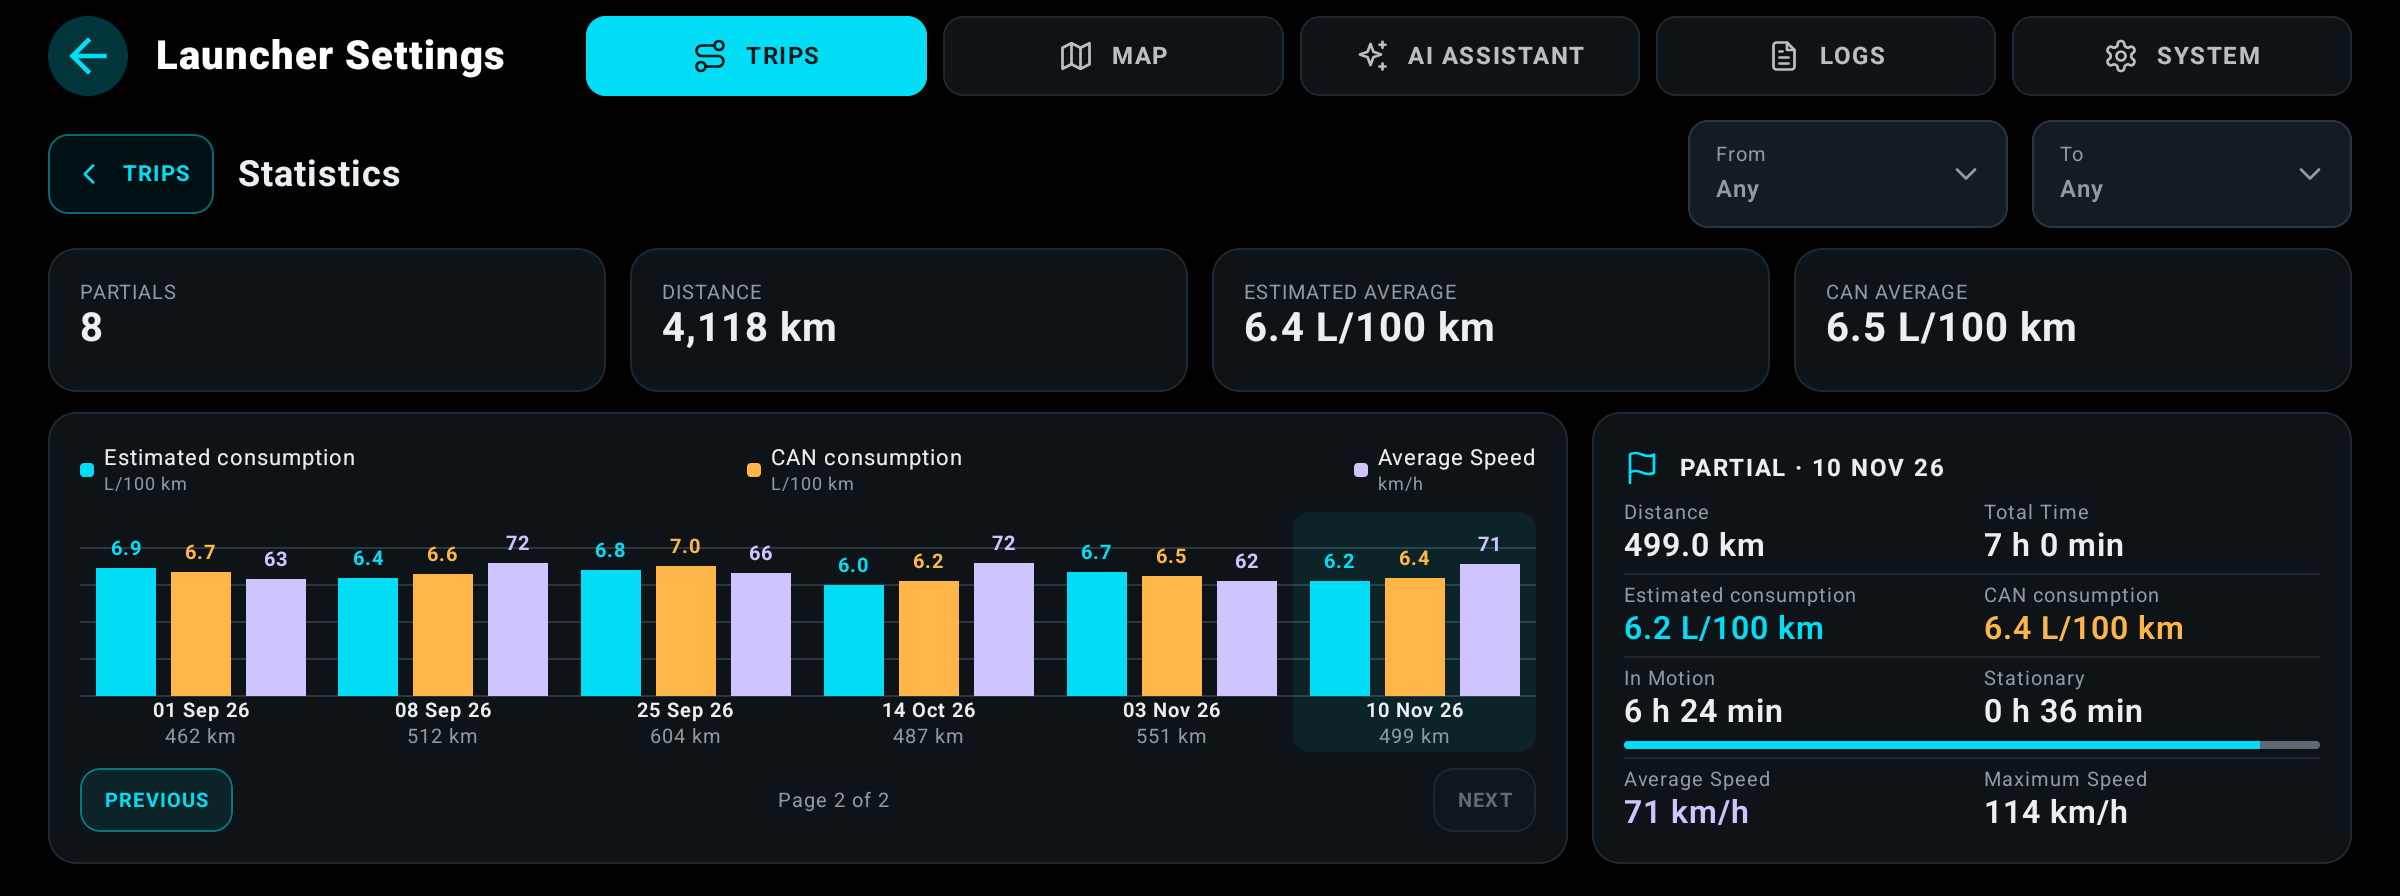
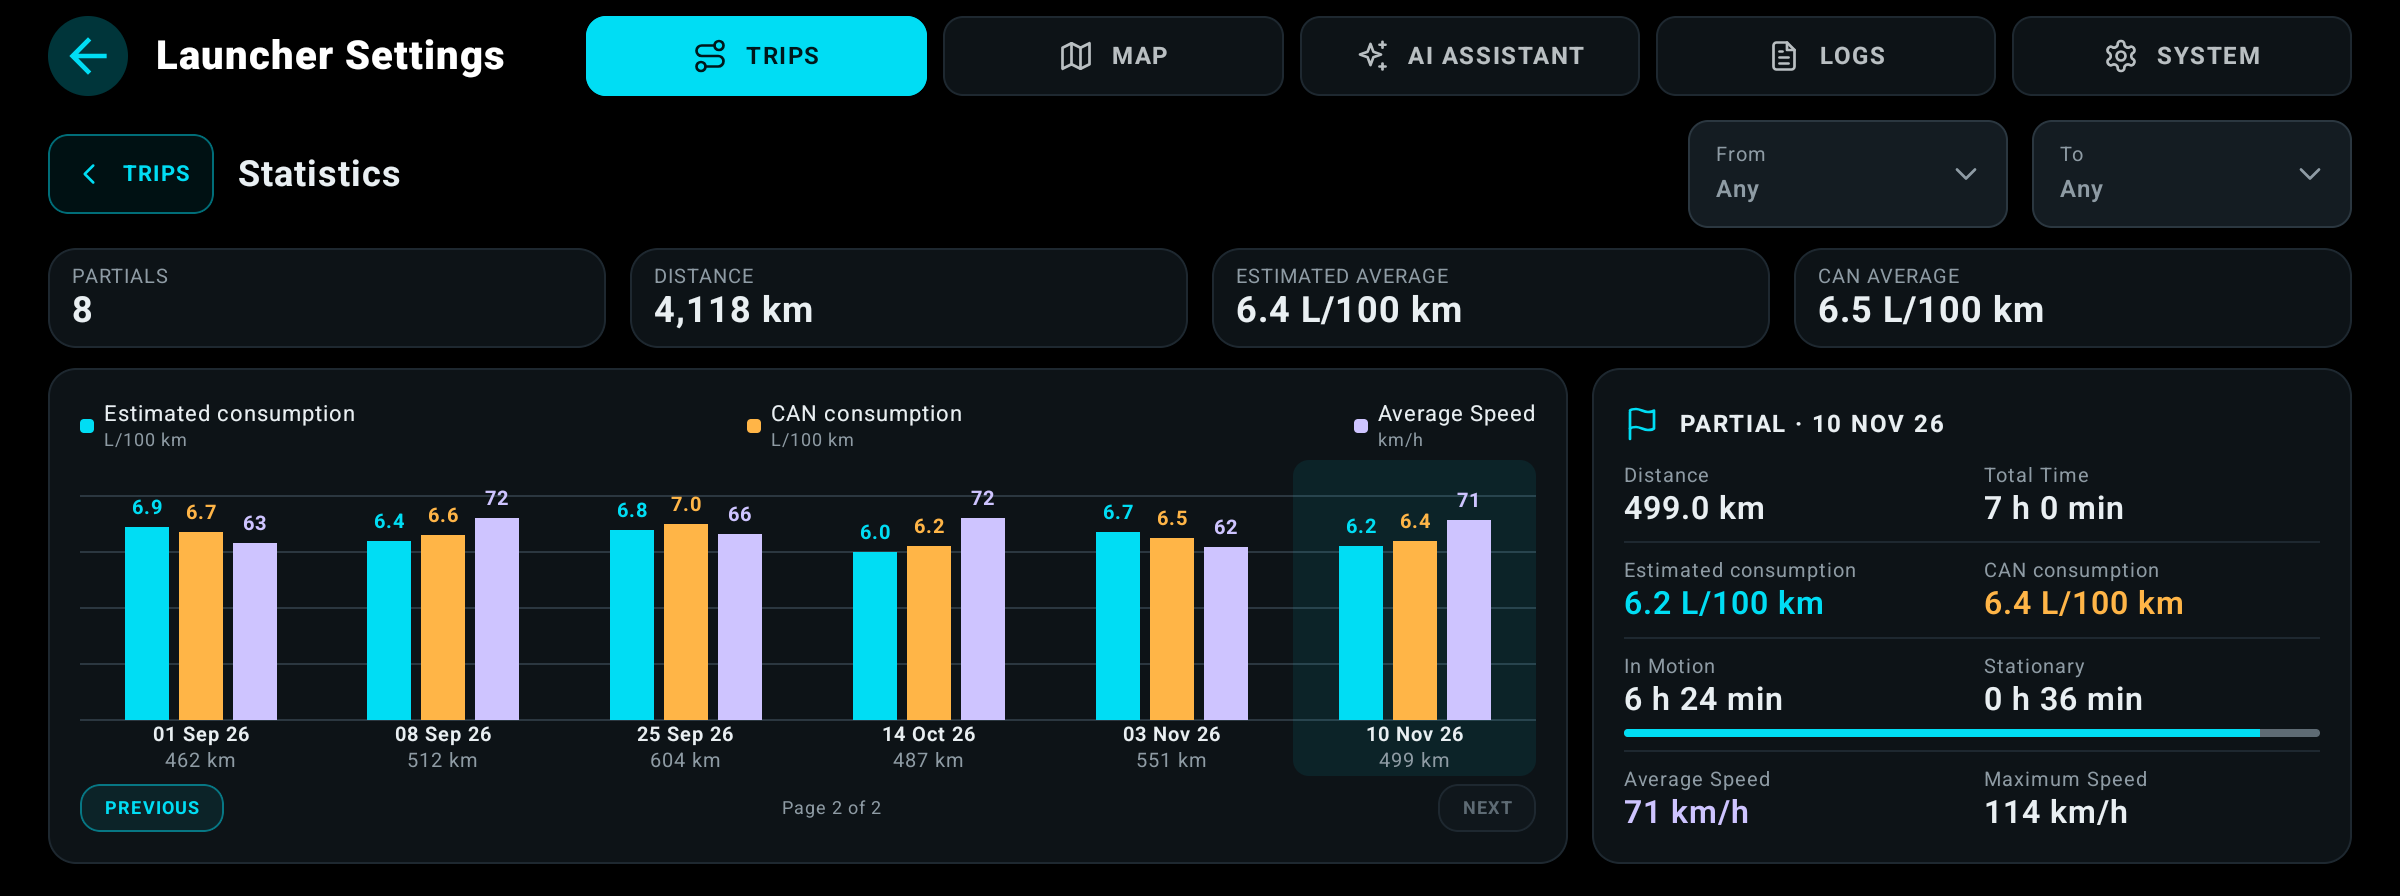
fix(stats): give the chart more space with compact summaries and pagination
Narrow the bars while retaining room for three-digit labels, reduce summary
card padding, and shrink the page controls. Refresh both README screenshots.

Changed region(s): [[0.0312, 0.2812, 0.9688, 0.9062], [0.3125, 0.875, 0.375, 0.9062], [0.5938, 0.875, 0.625, 0.9062]]

diff --git a/app/src/main/java/com/lito/a5launcher/ui/components/PartialStatisticsPanel.kt b/app/src/main/java/com/lito/a5launcher/ui/components/PartialStatisticsPanel.kt
@@ -125,9 +125,9 @@ internal fun PartialStatisticsPanel(records: List<JourneyHistoryRecord>, onBack:
 
 @Composable
 private fun StatisticSummary(label: String, value: String, modifier: Modifier) {
-    SettingsCard(modifier.height(72.dp)) {
+    SettingsCard(modifier.height(50.dp), contentPadding = PaddingValues(horizontal = 12.dp, vertical = 8.dp)) {
         Text(label.uppercase(LocalConfiguration.current.locales[0]), color = SettingsPalette.MutedText, fontSize = 10.sp, lineHeight = 12.sp, maxLines = 1)
-        Text(value, color = SettingsPalette.Text, fontSize = 20.sp, lineHeight = 24.sp, fontWeight = FontWeight.Bold, maxLines = 1)
+        Text(value, color = SettingsPalette.Text, fontSize = 18.sp, lineHeight = 22.sp, fontWeight = FontWeight.Bold, maxLines = 1)
     }
 }
 
@@ -146,7 +146,7 @@ private fun ConsumptionChart(
     }
     val speedColor = Color(0xFFCEC4FF)
     val pages = (records.size + PARTIALS_PER_PAGE - 1) / PARTIALS_PER_PAGE
-    Column(Modifier.fillMaxSize(), verticalArrangement = Arrangement.spacedBy(8.dp)) {
+    Column(Modifier.fillMaxSize(), verticalArrangement = Arrangement.spacedBy(4.dp)) {
         Row(Modifier.fillMaxWidth(), horizontalArrangement = Arrangement.SpaceBetween) {
             ChartLegend(stringResource(R.string.history_statistics_estimated), stringResource(R.string.history_statistics_consumption_unit), SettingsPalette.Accent)
             ChartLegend(stringResource(R.string.history_statistics_can), stringResource(R.string.history_statistics_consumption_unit), SettingsPalette.Warning)
@@ -171,7 +171,7 @@ private fun ConsumptionChart(
                         horizontalAlignment = Alignment.CenterHorizontally,
                     ) {
                         Row(
-                            Modifier.fillMaxWidth().height(plotHeight + 18.dp).padding(horizontal = 6.dp),
+                            Modifier.widthIn(max = 78.dp).fillMaxWidth().height(plotHeight + 18.dp),
                             horizontalArrangement = Arrangement.spacedBy(3.dp), verticalAlignment = Alignment.Bottom,
                         ) {
                             StatisticsBar(partialEstimatedConsumption(record.statistics), maximum, plotHeight, SettingsPalette.Accent, locale, 1, Modifier.weight(1f))
@@ -186,9 +186,9 @@ private fun ConsumptionChart(
             }
         }
         Row(Modifier.fillMaxWidth(), verticalAlignment = Alignment.CenterVertically, horizontalArrangement = Arrangement.spacedBy(12.dp)) {
-            SettingsActionButton(stringResource(R.string.history_statistics_older), 32.dp, fontSize = 10.sp, enabled = page < pages - 1) { onPage(page + 1) }
-            Text(stringResource(R.string.history_statistics_page, pages - page, pages), color = SettingsPalette.MutedText, fontSize = 10.sp, modifier = Modifier.weight(1f), textAlign = androidx.compose.ui.text.style.TextAlign.Center)
-            SettingsActionButton(stringResource(R.string.history_statistics_newer), 32.dp, fontSize = 10.sp, enabled = page > 0) { onPage(page - 1) }
+            SettingsActionButton(stringResource(R.string.history_statistics_older), 24.dp, fontSize = 9.sp, enabled = page < pages - 1) { onPage(page + 1) }
+            Text(stringResource(R.string.history_statistics_page, pages - page, pages), color = SettingsPalette.MutedText, fontSize = 9.sp, modifier = Modifier.weight(1f), textAlign = androidx.compose.ui.text.style.TextAlign.Center)
+            SettingsActionButton(stringResource(R.string.history_statistics_newer), 24.dp, fontSize = 9.sp, enabled = page > 0) { onPage(page - 1) }
         }
     }
 }
@@ -199,7 +199,7 @@ private fun StatisticsBar(value: Double?, maximum: Double, plotHeight: androidx.
         Spacer(Modifier.weight(1f))
         Text(value?.let { number(it, locale, decimals) } ?: "—", color = color, fontSize = 10.sp, lineHeight = 14.sp, fontWeight = FontWeight.Bold, maxLines = 1)
         Spacer(Modifier.height(3.dp))
-        Box(Modifier.widthIn(max = 30.dp).fillMaxWidth().height(plotHeight * ((value ?: 0.0) / maximum).toFloat()).background(color))
+        Box(Modifier.widthIn(max = 22.dp).fillMaxWidth().height(plotHeight * ((value ?: 0.0) / maximum).toFloat()).background(color))
     }
 }
 

diff --git a/app/src/main/java/com/lito/a5launcher/ui/components/SettingsComponents.kt b/app/src/main/java/com/lito/a5launcher/ui/components/SettingsComponents.kt
@@ -12,6 +12,7 @@ import androidx.compose.foundation.layout.Box
 import androidx.compose.foundation.layout.BoxWithConstraints
 import androidx.compose.foundation.layout.Column
 import androidx.compose.foundation.layout.ColumnScope
+import androidx.compose.foundation.layout.PaddingValues
 import androidx.compose.foundation.layout.Row
 import androidx.compose.foundation.layout.RowScope
 import androidx.compose.foundation.layout.Spacer
@@ -87,6 +88,7 @@ internal val SettingsControlShape = RoundedCornerShape(SettingsDimensions.Contro
 @Composable
 internal fun SettingsCard(
     modifier: Modifier = Modifier,
+    contentPadding: PaddingValues = PaddingValues(SettingsDimensions.CardPadding),
     content: @Composable ColumnScope.() -> Unit,
 ) {
     val shape = RoundedCornerShape(SettingsDimensions.CardRadius)
@@ -95,7 +97,7 @@ internal fun SettingsCard(
             .clip(shape)
             .background(SettingsPalette.Card)
             .border(1.dp, SettingsPalette.Border, shape)
-            .padding(SettingsDimensions.CardPadding),
+            .padding(contentPadding),
         content = content,
     )
 }
